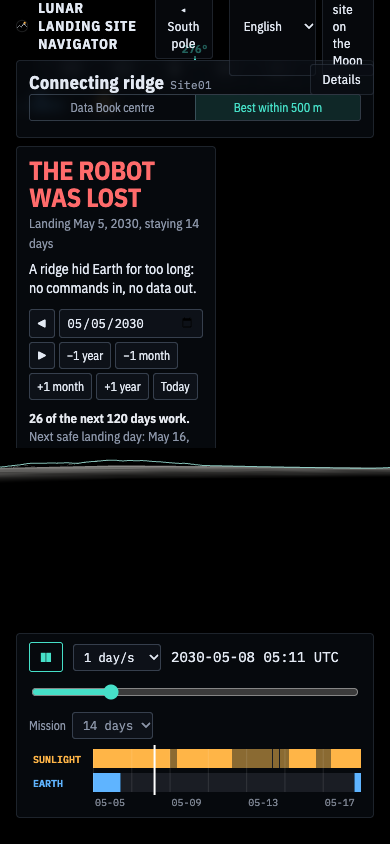
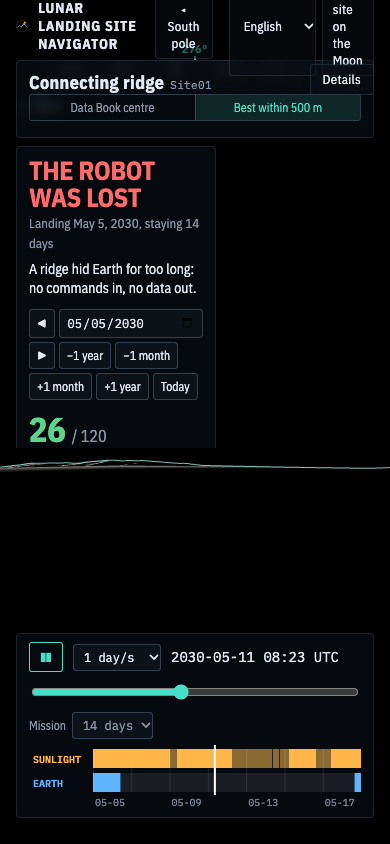
Hosted site is one product: the 3D app; headline the count of surviving landing days
The old guided story is no longer reachable on the hosted site (it stays in
the offline copy). The answer panel leads its day strip with the count, and
has a legend.

diff --git a/app/surface/js/verdict.js b/app/surface/js/verdict.js
@@ -55,7 +55,8 @@ export function renderVerdict(el, ctx) {
     `<p class="v-why">${L(why)}</p>` +
     `<div class="v-date"><button data-t="${shift(-1, 0)}" title="${L('m5Prev')}">◀</button><input id="v-day" type="date" min="${iso(ctx.p0)}" max="${iso(ctx.p1 - days * DAY)}" value="${iso(t)}" aria-label="${L('m5Title')}"><button data-t="${shift(1, 0)}" title="${L('m5Next')}">▶</button>` +
     `<button data-t="${shift(0, -12)}">−1 ${L('vYear')}</button><button data-t="${shift(0, -1)}">−1 ${L('vMonth')}</button><button data-t="${shift(0, 1)}">+1 ${L('vMonth')}</button><button data-t="${shift(0, 12)}">+1 ${L('vYear')}</button><button data-t="${today}">${L('m5Today')}</button></div>` +
-    `<p class="v-cal"><b>${L('calSum', { n: good, m: last + 1 })}</b> ${sum}</p><div class="days">${strip.join('')}</div>` +
+    `<div class="v-count"><b>${good}</b><span>/ ${last + 1}</span><em>${L('calSum', { n: good, m: last + 1 })} ${sum}</em></div><div class="days">${strip.join('')}</div>` +
+    `<p class="v-key"><i class="ok"></i>${L('mOkShort')} <i class="bad"></i>${L('mLostShort')} <i class="cur"></i>${L('calNow')}</p>` +
     `<table class="v-rows">${e.rows.map((r) => { const [v, lim] = cells(r);
       return `<tr class="${r.pri} ${r.ok === false ? 'fail' : ''}"><td><span class="tip" tabindex="0" data-tip="${lim ? L('colLimit') + ': ' + lim + '. ' : ''}${L('r' + cap(r.id) + 'Tip')}">${L('r' + cap(r.id))}</span></td><td>${v}</td><td>${r.ok === undefined ? '' : r.ok ? '✔' : '✘'}</td></tr>`; }).join('')}</table>` +
     `<p class="v-note"><span class="tip" tabindex="0" data-tip="${L('mNote')} ${L('m5Note')}">ⓘ</span> ${L('vHint')}</p>`;

diff --git a/app/surface/css/style.css b/app/surface/css/style.css
@@ -234,3 +234,9 @@ html.embed #dock { left: 10px; right: 10px; bottom: 10px; }
 @media (max-width: 760px) { #hud { width: auto; right: 16px; max-height: 46vh; } #viewtools { display: none; } #topbar nav button { display: none; } }
 .hud-site { order: -1; }
 html.min:not(.embed) .hud-block, html.min .mission label:first-child { display: none !important; }
+.v-count { display: flex; align-items: baseline; gap: 6px; margin: 12px 0 8px; flex-wrap: wrap; }
+.v-count b { font-size: 34px; line-height: 1; font-weight: 700; color: #5fd38d; } .verdict .v-count span { font-size: 16px; color: var(--muted); }
+.v-count em { font-style: normal; font-size: 13px; color: var(--muted); flex: 1 1 100%; }
+.verdict .v-key { font-size: 12px; color: var(--muted); margin: 0 0 8px; }
+.v-key i { display: inline-block; width: 10px; height: 10px; border-radius: 2px; margin: 0 4px 0 10px; vertical-align: -1px; } .v-key i:first-child { margin-left: 0; }
+.v-key i.ok { background: #5fd38d; } .v-key i.bad { background: #6b2f36; } .v-key i.cur { outline: 2px solid #fff; outline-offset: -2px; }

diff --git a/app/index.html b/app/index.html
@@ -1,8 +1,8 @@
 <!doctype html>
 <html lang="en">
 <head>
-<script>/* Hosted: the front page is the 3D surface view. This page stays the planner and the guided mission (#mode=planner, #mode=mission), and the offline copy. */
-if (location.protocol !== "file:" && !/(mode|sites|lang)=/.test(location.hash)) location.replace("surface/");</script>
+<script>/* Hosted: the front page is the 3D surface view. This page stays the 2D planner for any site on the Moon (#mode=planner) and the offline copy; the old guided story is not reachable on the hosted site. */
+if (location.protocol !== "file:") { if (!/(mode=planner|sites=)/.test(location.hash)) location.replace("surface/"); document.documentElement.classList.add("hosted"); }</script>
 <meta charset="utf-8">
 <meta name="viewport" content="width=device-width, initial-scale=1">
 <title>Lunar Landing Site Navigator</title>

diff --git a/app/style.css b/app/style.css
@@ -202,3 +202,4 @@ body.mission .days .day.now { opacity: 1; outline: 2px solid var(--text); outlin
 .cal .key { display: inline-block; width: 10px; height: 10px; border-radius: 2px; margin: 0 4px 0 10px; vertical-align: -1px; } .cal .key:first-child { margin-left: 0; }
 .key.ok { background: var(--both); } .key.bad { background: #6b2f36; } .key.now { outline: 2px solid var(--text); outline-offset: -2px; }
 #mission .verdict b { font-size: clamp(26px, 3.6vw, 40px); } #mission .why { margin-bottom: 12px; }
+html.hosted #modeBtn { display: none; } /* hosted: one product, the 3D app; the guided story stays in the offline copy only */
